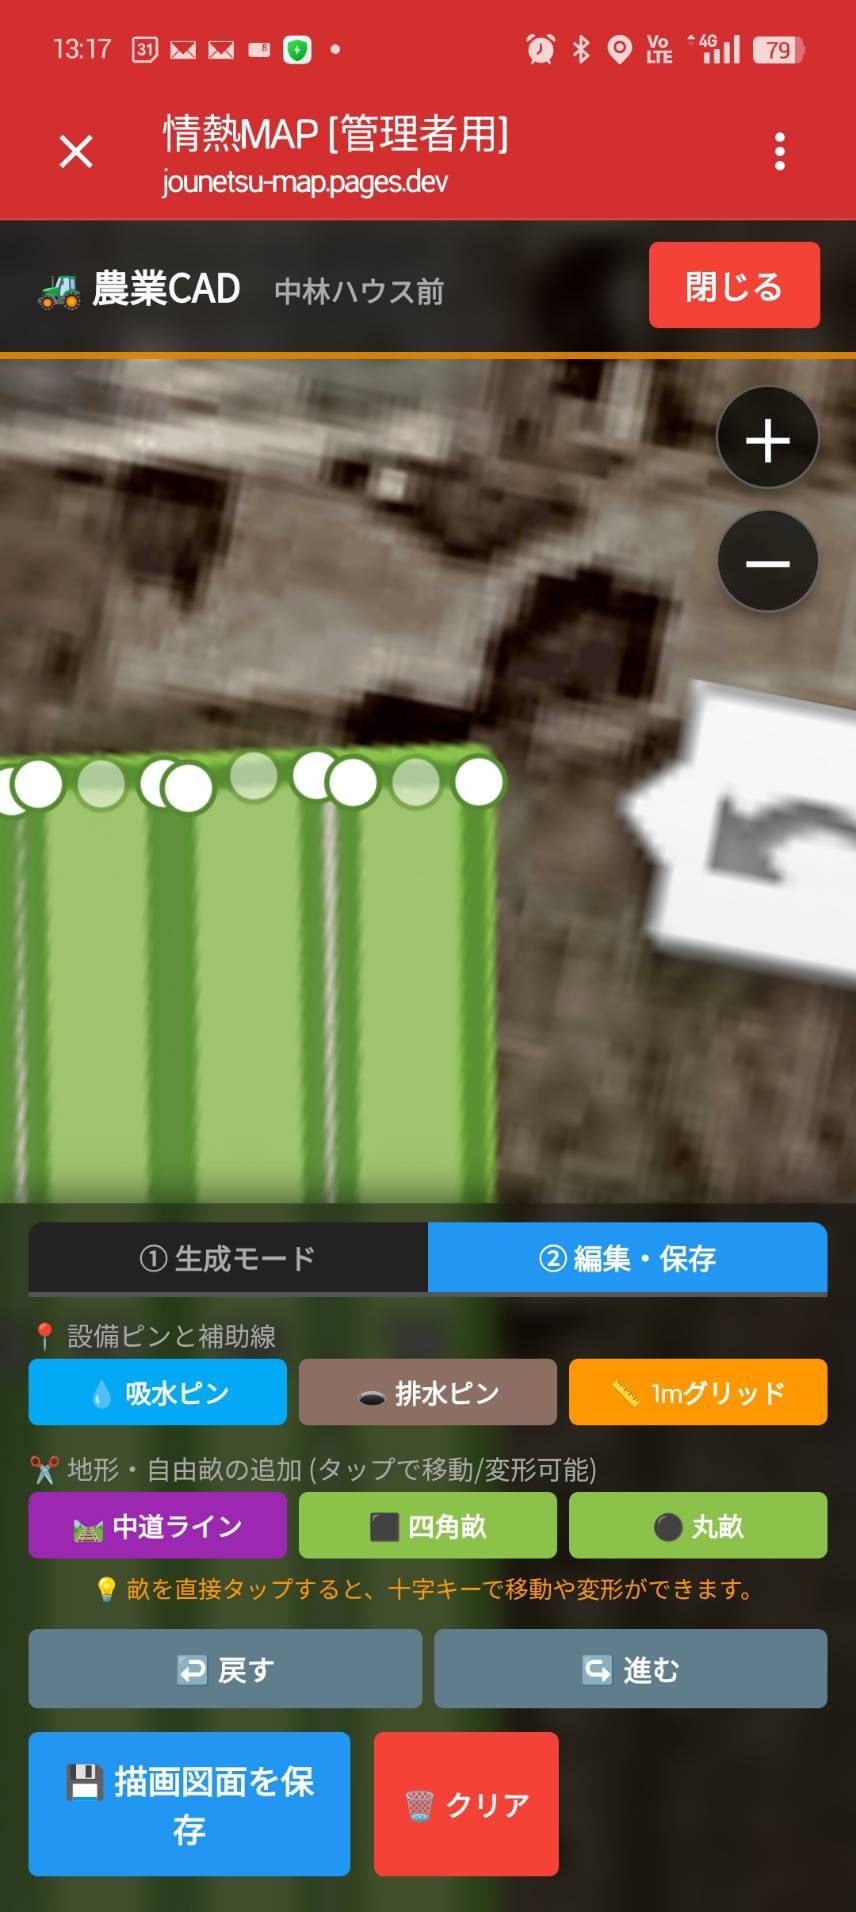
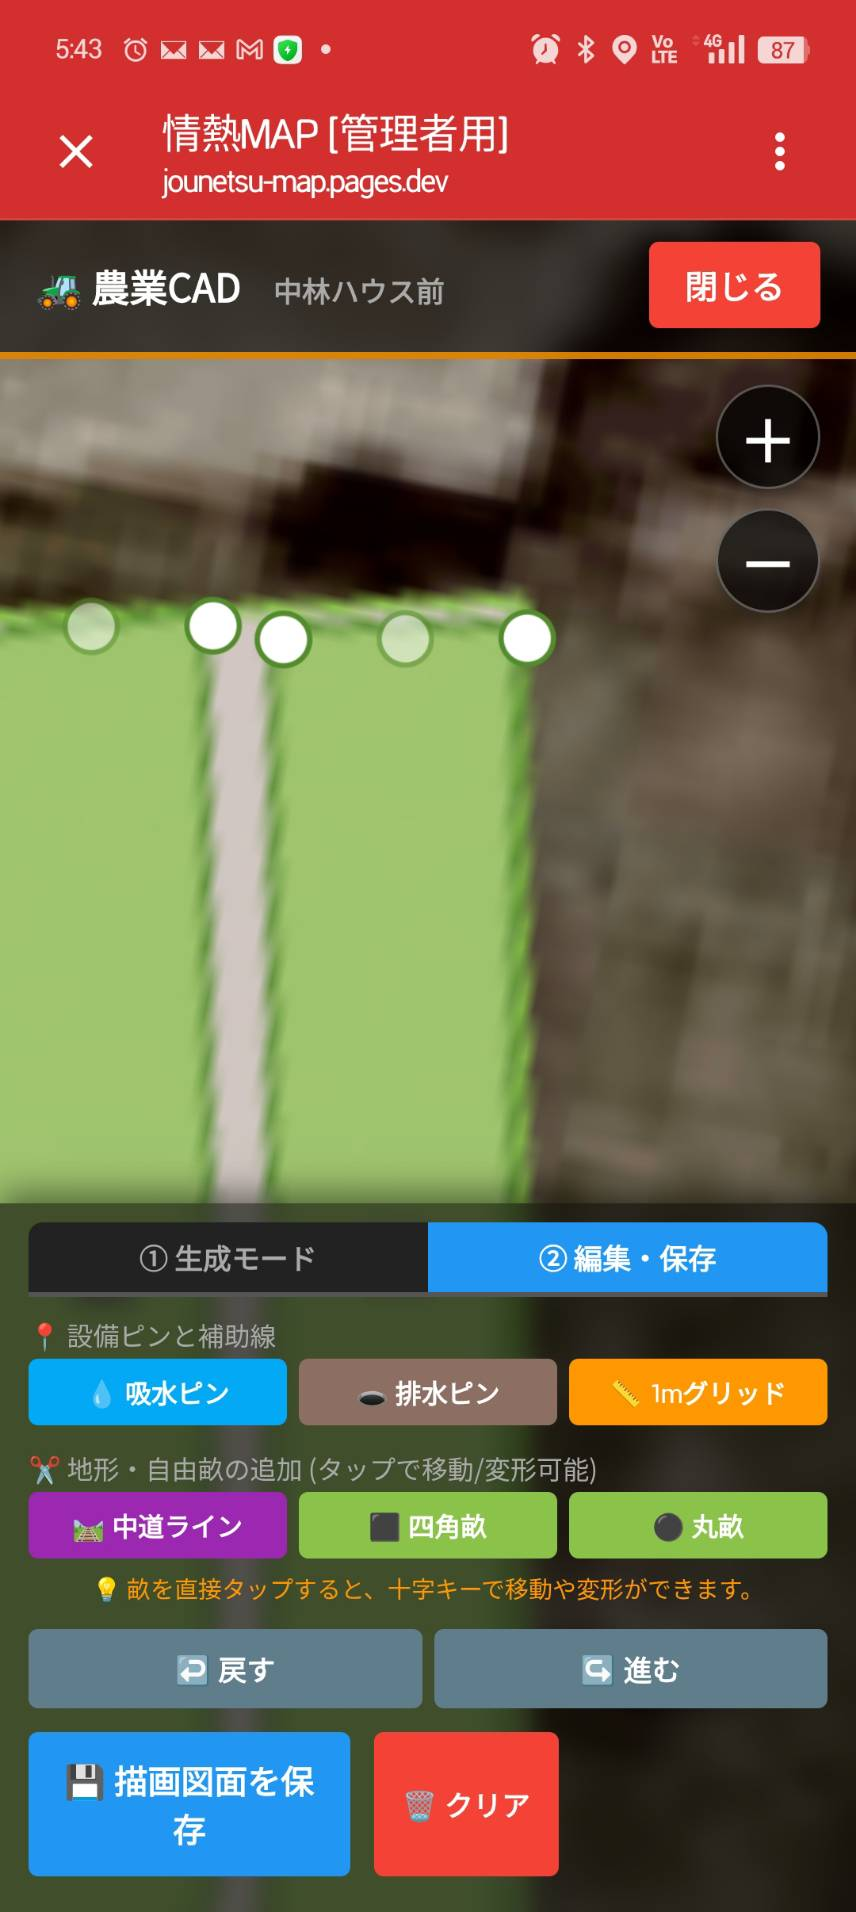
Auto: この画像の、畝ポリゴンのグリッド線 なんですが、拡大に応じて... [変更: cad.js, reference_image.jpg]

diff --git a/cad.js b/cad.js
@@ -835,6 +835,16 @@ window.openCADMode = (id) => {
             mapTypeId: 'satellite', tilt: 0, heading: 0,
             mapId: 'DEMO_MAP_ID', gestureHandling: 'none', disableDefaultUI: true, zoomControl: true, isFractionalZoomEnabled: true
         });
+        
+        // 🌟 修正：衛星写真マップタイプのmaxZoomを上書きし、ネイティブで30までズームできるようにする
+        // これにより、CSSのscaleによる引き伸ばし（ギザギザ化）を防ぎ、ポリゴンの解像度を保つ
+        google.maps.event.addListenerOnce(window.cadMap, 'idle', () => {
+            const satType = window.cadMap.mapTypes.get('satellite');
+            if (satType) satType.maxZoom = 30;
+            const hybType = window.cadMap.mapTypes.get('hybrid');
+            if (hybType) hybType.maxZoom = 30;
+        });
+
         window.cadMap.addListener('center_changed', () => {
             if (typeof window.updateCadLabelPositionsThrottled === 'function') window.updateCadLabelPositionsThrottled();
         });
